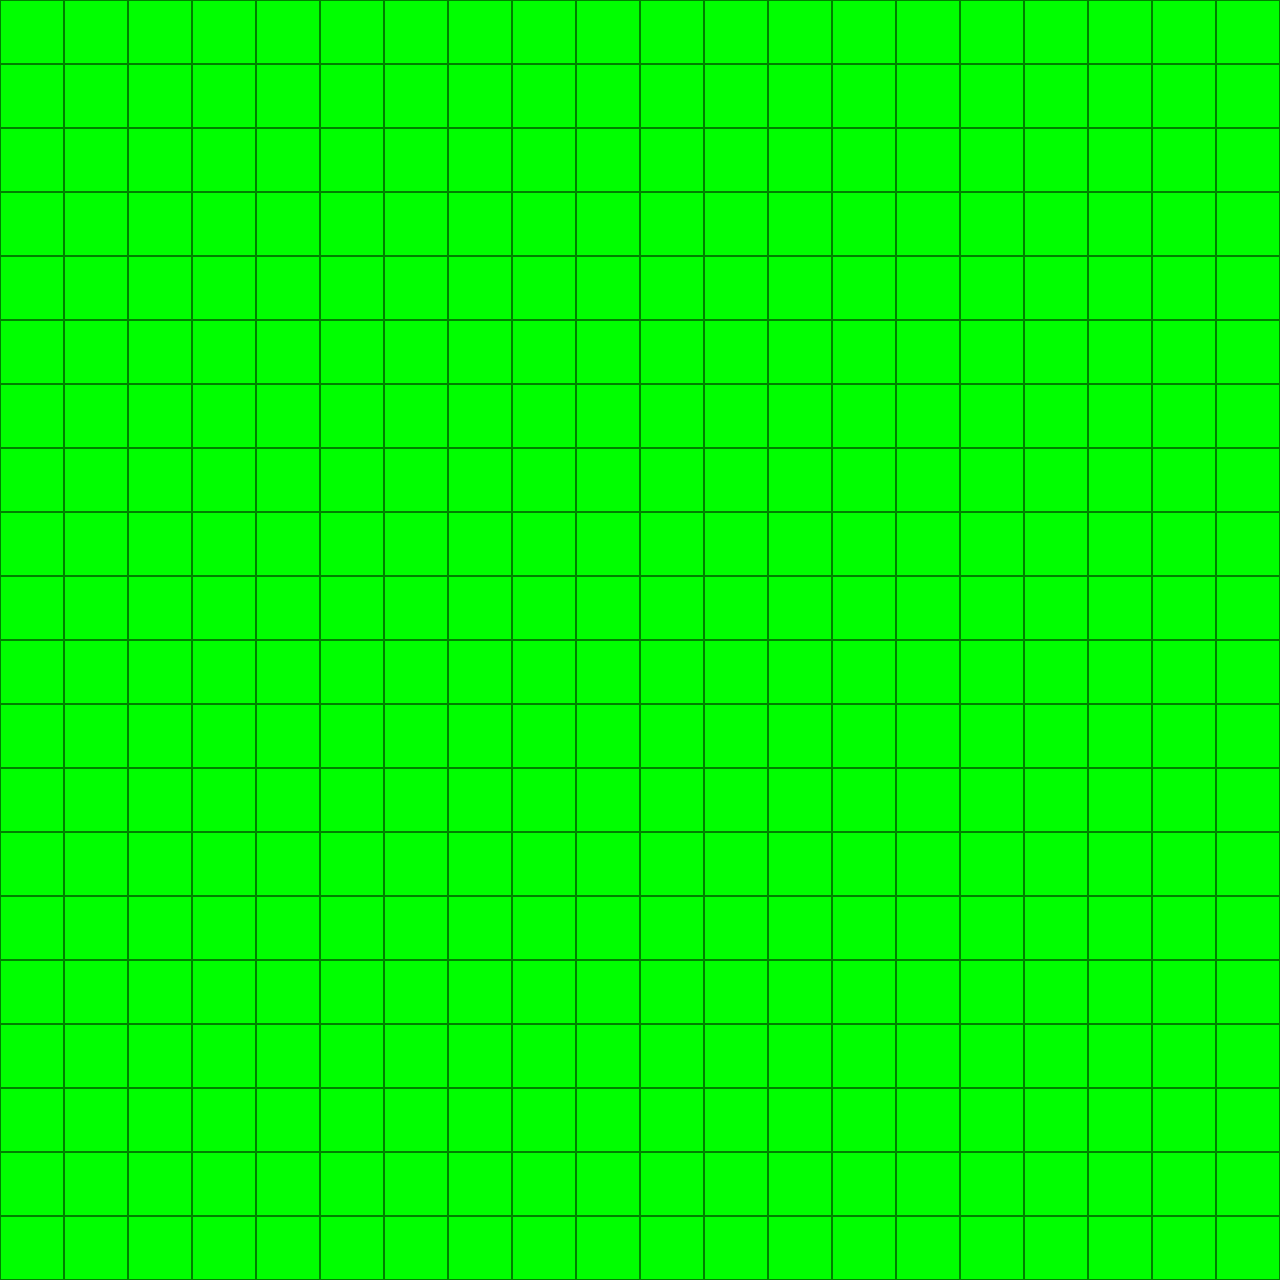
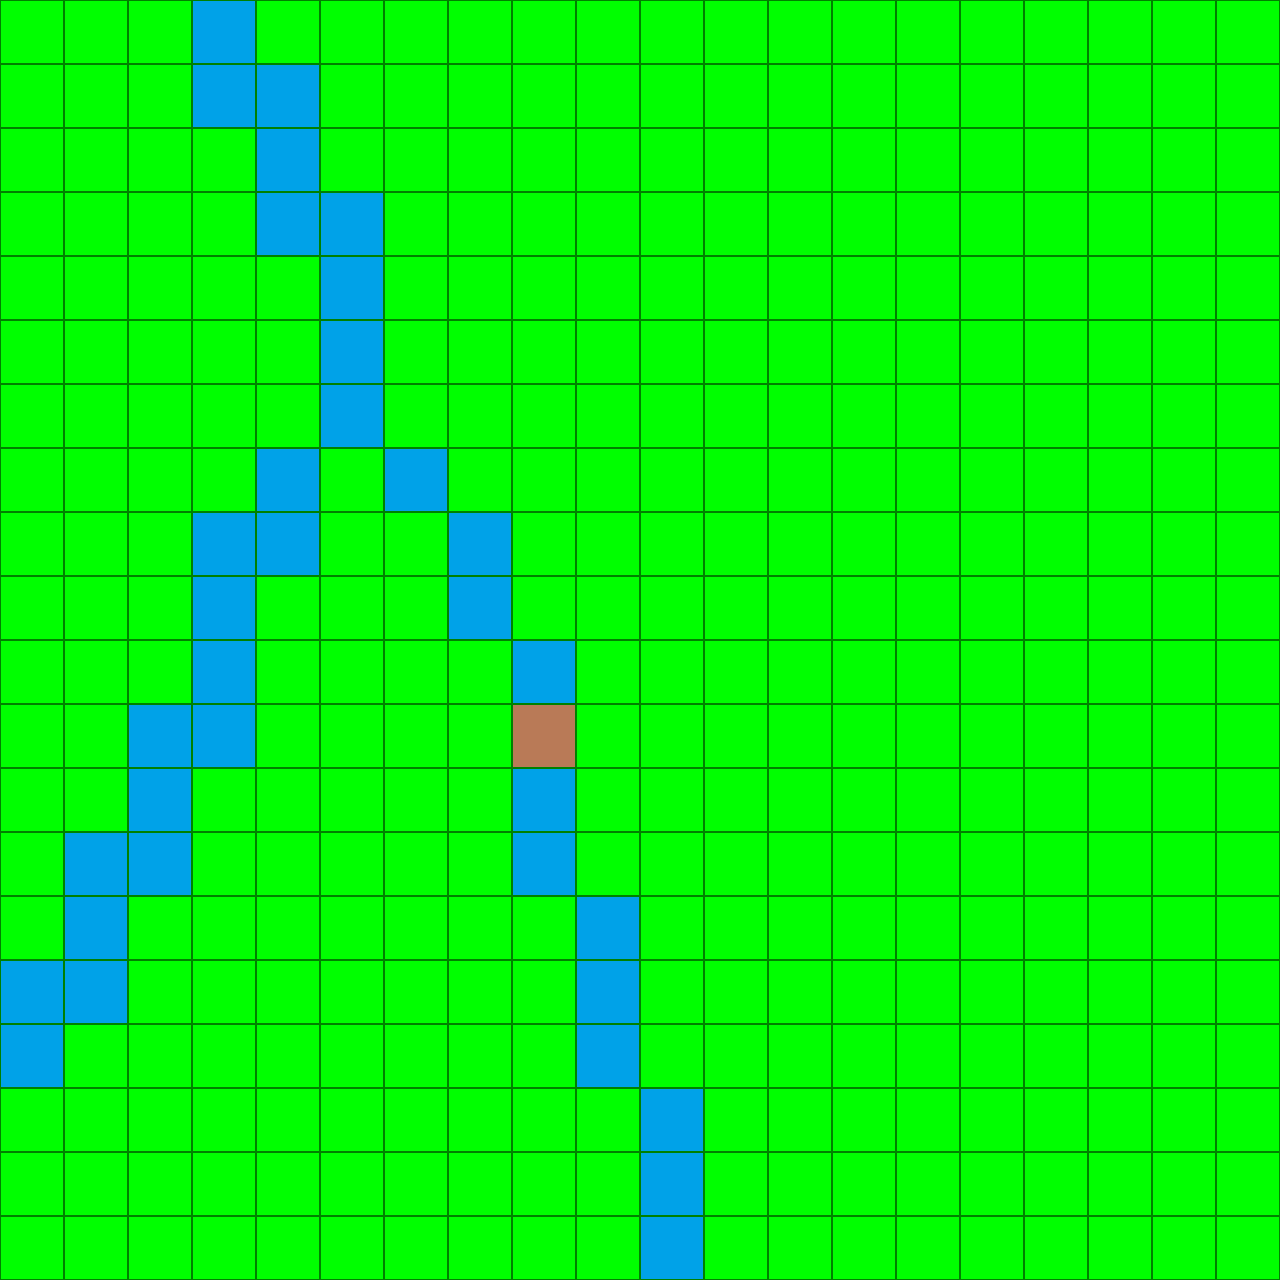
"マップ制作中"

Changed region(s): [[0.0, 0.0, 0.5625, 1.0]]

diff --git a/MapControl.cpp b/MapControl.cpp
@@ -6,12 +6,20 @@
 
 using namespace std;
 
+MapControl::MapControl() {
+
+}
+
 MapControl::MapControl(int x, int y, int map) {
+	this->countFrame = 0;
+	this->directionPlayer = 0;
 	this->position_player[0] = x;
 	this->position_player[1] = y;
 	switch (map) {
 	case 0:
 		this->image = LoadGraph("");
+		this->mapsize_w = 500;
+		this->mapsize_h = 500;
 		for (int x = 0; x < 500; x++) {
 			this->maps.push_back(*new vector <Map*>);
 			for (int y = 0; y < 500; y++) {
@@ -21,6 +29,8 @@ MapControl::MapControl(int x, int y, int map) {
 		break;
 	case 1:
 		this->image = LoadGraph("test_map.png");
+		this->mapsize_w = 20;
+		this->mapsize_h = 20;
 		for (int x = 0; x < 20; x++) {
 			this->maps.push_back(*new vector <Map*>);
 			for (int y = 0; y < 20; y++) {
@@ -31,6 +41,9 @@ MapControl::MapControl(int x, int y, int map) {
 	this->createMap();
 }
 
+MapControl::~MapControl() {
+
+}
 int MapControl::getX() {
 	return this->position_player[0];
 }
@@ -39,11 +52,17 @@ int MapControl::getY() {
 	return this->position_player[1];
 }
 
-void MapControl::show(int dispsize[], Player* allen) {
-	int x = -this->position_player[0]*64 + dispsize[0]/2;
-	int y = -this->position_player[1]*64 + dispsize[1]/2;
+void MapControl::show(int width, int height, Player* allen) {
+	int x = -this->position_player[0]*64 + width/2;
+	int y = -this->position_player[1]*64 + height/2;
 	DrawGraph(x, y, this->image, TRUE);
-	allen->draw_map(dispsize[0] / 2 - 32, dispsize[1] / 2 - 32, 0, 0);
+	if (this->directionPlayer == 1 || this->directionPlayer == 0) {
+		allen->draw_map(width/ 2, height / 2, (this->countFrame/10) % 2, this->directionPlayer);
+	}
+	else {
+		allen->draw_map(width / 2, height / 2, (this->countFrame/10) % 4, this->directionPlayer);
+	}
+	this->countFrame++;
 }
 
 
@@ -59,23 +78,59 @@ void MapControl::createMap() {
 	bool is_npc = false;
 	int table = ENCOUNT_FIRST_NORMAL;
 	NPC npc;
+	Event events;
 	while (getline(stream, line)) {
 		col = 0;
 		for (string::size_type spos, epos = 0;
 			(spos = line.find_first_not_of(delim, epos)) != string::npos;) {
 			string token = line.substr(spos, (epos = line.find_first_of(delim, spos)) - spos);
-			this->maps[row][col]->setData(stoi(token));
-			this->maps[row][col]->setIsEvent(is_event);
+			this->maps[col][row]->setData(stoi(token));
+			this->maps[col][row]->setIsEvent(is_event);
 			if (is_npc) {
-				this->maps[row][col]->setNpc(is_npc);
+				this->maps[col][row]->setNpc(&npc);
 			}
 			else {
-				this->maps[row][col]->setNpc(&npc);
+				this->maps[col][row]->setNpc(false);
 			}
-			this->maps[row][col]->setTable(table);
+			if (is_event) {
+				this->maps[col][row]->setEvent(&events);
+			}
+			else {
+				this->maps[col][row]->setEvent(false);
+			}
+			this->maps[col][row]->setTable(table);
 			col++;
 				
 		}
 		++row;
+	}
+}
+
+void MapControl::Update(int code) {
+	switch (code) {
+	case 0:
+		if ((this->position_player[1]+1 < this->mapsize_h) && this->maps[position_player[0]][position_player[1]+1]->getIsMove()){
+			this->position_player[1] += 1;
+		}
+		this->directionPlayer = 0;
+		break;
+	case 1:
+		if ((this->position_player[1] - 1 >= 0) && this->maps[position_player[0]][position_player[1] - 1]->getIsMove()) {
+			this->position_player[1] -= 1;
+		}
+		this->directionPlayer = 1;
+		break;
+	case 2:
+		if ((this->position_player[0] - 1 >= 0) && this->maps[position_player[0]-1][position_player[1]]->getIsMove()) {
+			this->position_player[0] -= 1;
+		}
+		this->directionPlayer = 2;
+		break;
+	case 3:
+		if ((this->position_player[0] + 1 < this->mapsize_w) && this->maps[position_player[0] + 1][position_player[1]]->getIsMove()) {
+			this->position_player[0] += 1;
+		}
+		this->directionPlayer = 3;
+		break;
 	}
 }

diff --git a/MapControl.h b/MapControl.h
@@ -8,13 +8,20 @@
 class MapControl {
 private:
 	int position_player[2];
+	int mapsize_w;
+	int mapsize_h;
+	int countFrame;
+	int directionPlayer;
 	std::vector <std::vector<Map*>> maps;
 	int image;
 
 public:
+	MapControl();
 	MapControl(int x, int y, int map);
+	~MapControl();
 	int getX();
 	int getY();
-	void show(int dispsize[], Player* allen);
+	void Update(int code);
+	void show(int width, int height, Player* allen);
 	void createMap();
 };

diff --git a/Event.cpp b/Event.cpp
@@ -1,0 +1,19 @@
+#include "Event.h"
+#include "DxLib.h"
+
+Event::Event() {
+
+}
+
+Event::Event(int id) {
+	this->id = id;
+	this->step = 0;
+}
+
+void Event::message(int type) {
+	DrawFormatString(100, 100, GetColor(0, 0, 0), "Test Event");
+}
+
+void Event::Update() {
+	this->message(0);
+}

diff --git a/Event.h b/Event.h
@@ -1,0 +1,12 @@
+#pragma once
+
+class Event {
+protected:
+	int id;
+	int step;
+public:
+	Event();
+	Event(int id);
+	virtual void message(int type);
+	virtual void Update();
+};
